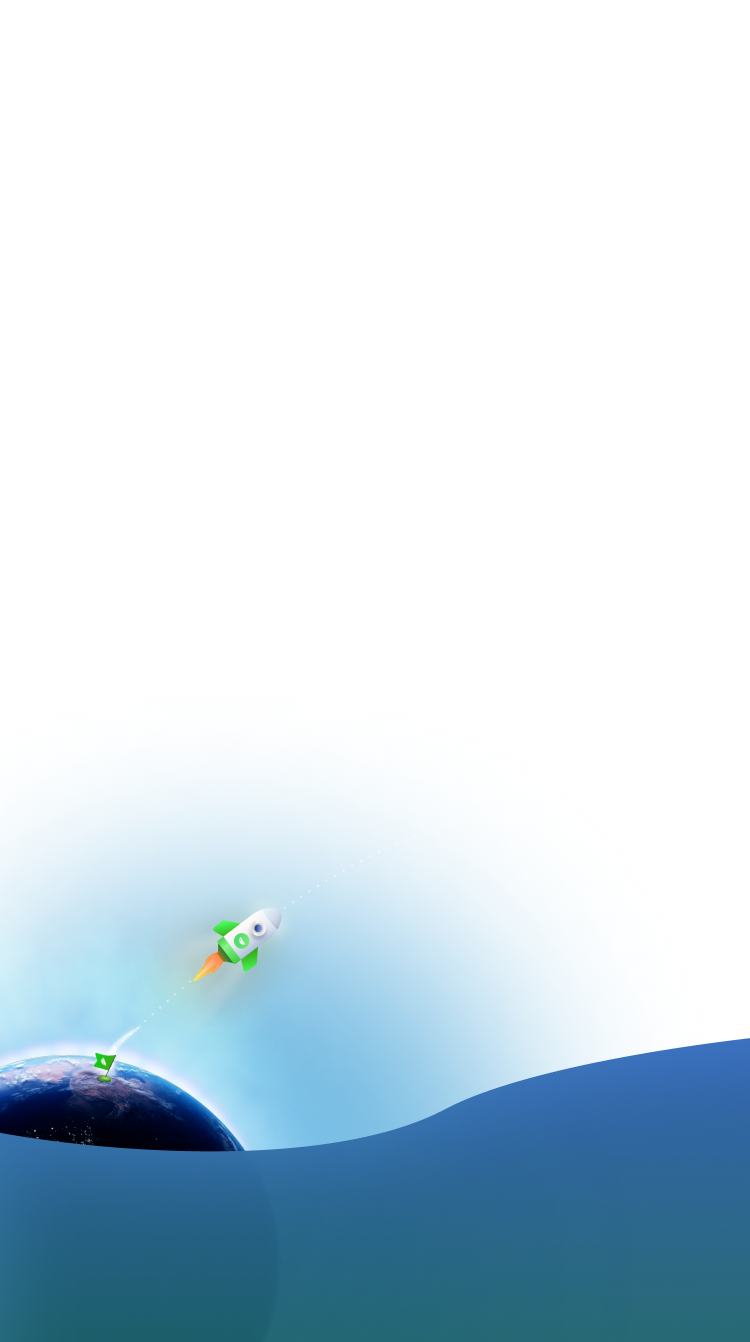
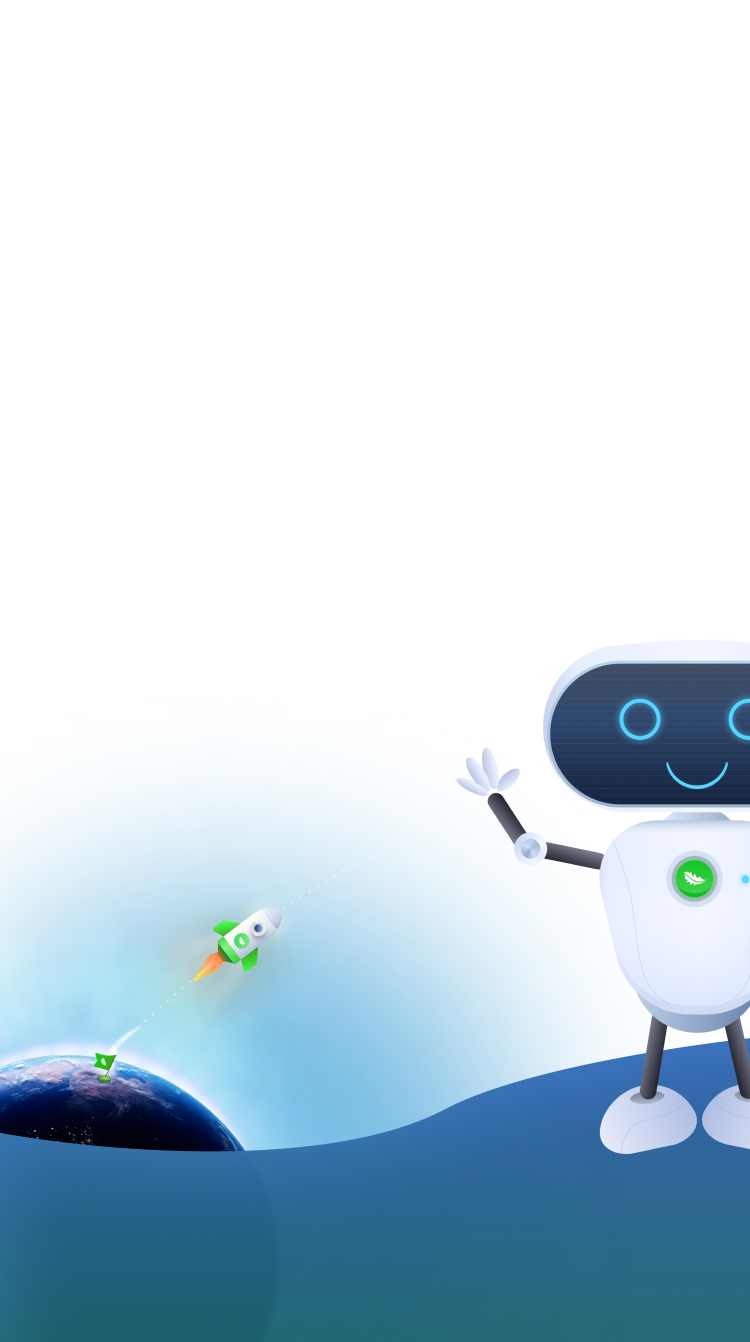
feat: jb images

Changed region(s): [[0.6133, 0.4888, 1.0, 0.6721], [0.7973, 0.7027, 1.0, 0.886]]

diff --git a/components/Screens/Onboarding/WelcomeScreen3.tsx b/components/Screens/Onboarding/WelcomeScreen3.tsx
@@ -12,8 +12,6 @@ import Animated, {
   interpolate,
   useAnimatedStyle,
 } from 'react-native-reanimated';
-import {calculate} from '../../../functions';
-import {scale, verticalScale} from '../../../utils/Adaptive';
 
 const WelcomeScreen3: React.FC<{
   animValue: SharedValue<number>;
@@ -42,36 +40,7 @@ const WelcomeScreen3: React.FC<{
           с возможностью управления{'\n'}через бота в Telegram
         </Text>
       </Animated.View>
-      <Image
-        style={[
-          {
-            maxHeight: verticalScale(326),
-            position: 'absolute',
-            height: calculate(306, 326).height,
-            zIndex: 1,
-            width: calculate(306, 326).width,
-            right: 0,
-            bottom: 0,
-          },
-        ]}
-        resizeMode="contain"
-        source={require('../../../assets/phone2.png')}
-      />
-      <Image
-        style={[
-          {
-            position: 'absolute',
-            maxHeight: verticalScale(463),
-            zIndex: 1,
-            height: calculate(253, 463).height,
-            width: scale(253),
-            right: -calculate(253, 463).width / 2.5,
-            bottom: 6,
-          },
-        ]}
-        resizeMode="contain"
-        source={require('../../../assets/phone1.png')}
-      />
+
       <Image
         source={require('../../../assets/bottom3_2.png')}
         style={{

diff --git a/components/Screens/Onboarding/WelcomeScreen1.tsx b/components/Screens/Onboarding/WelcomeScreen1.tsx
@@ -57,12 +57,6 @@ const WelcomeScreen1: React.FC<{
       </Animated.View>
 
       <Image
-        source={require('../../../assets/robot1.png')}
-        style={styles.img1}
-        resizeMode="contain"
-      />
-
-      <Image
         source={require('../../../assets/bottom1.png')}
         style={styles.img2}
       />
